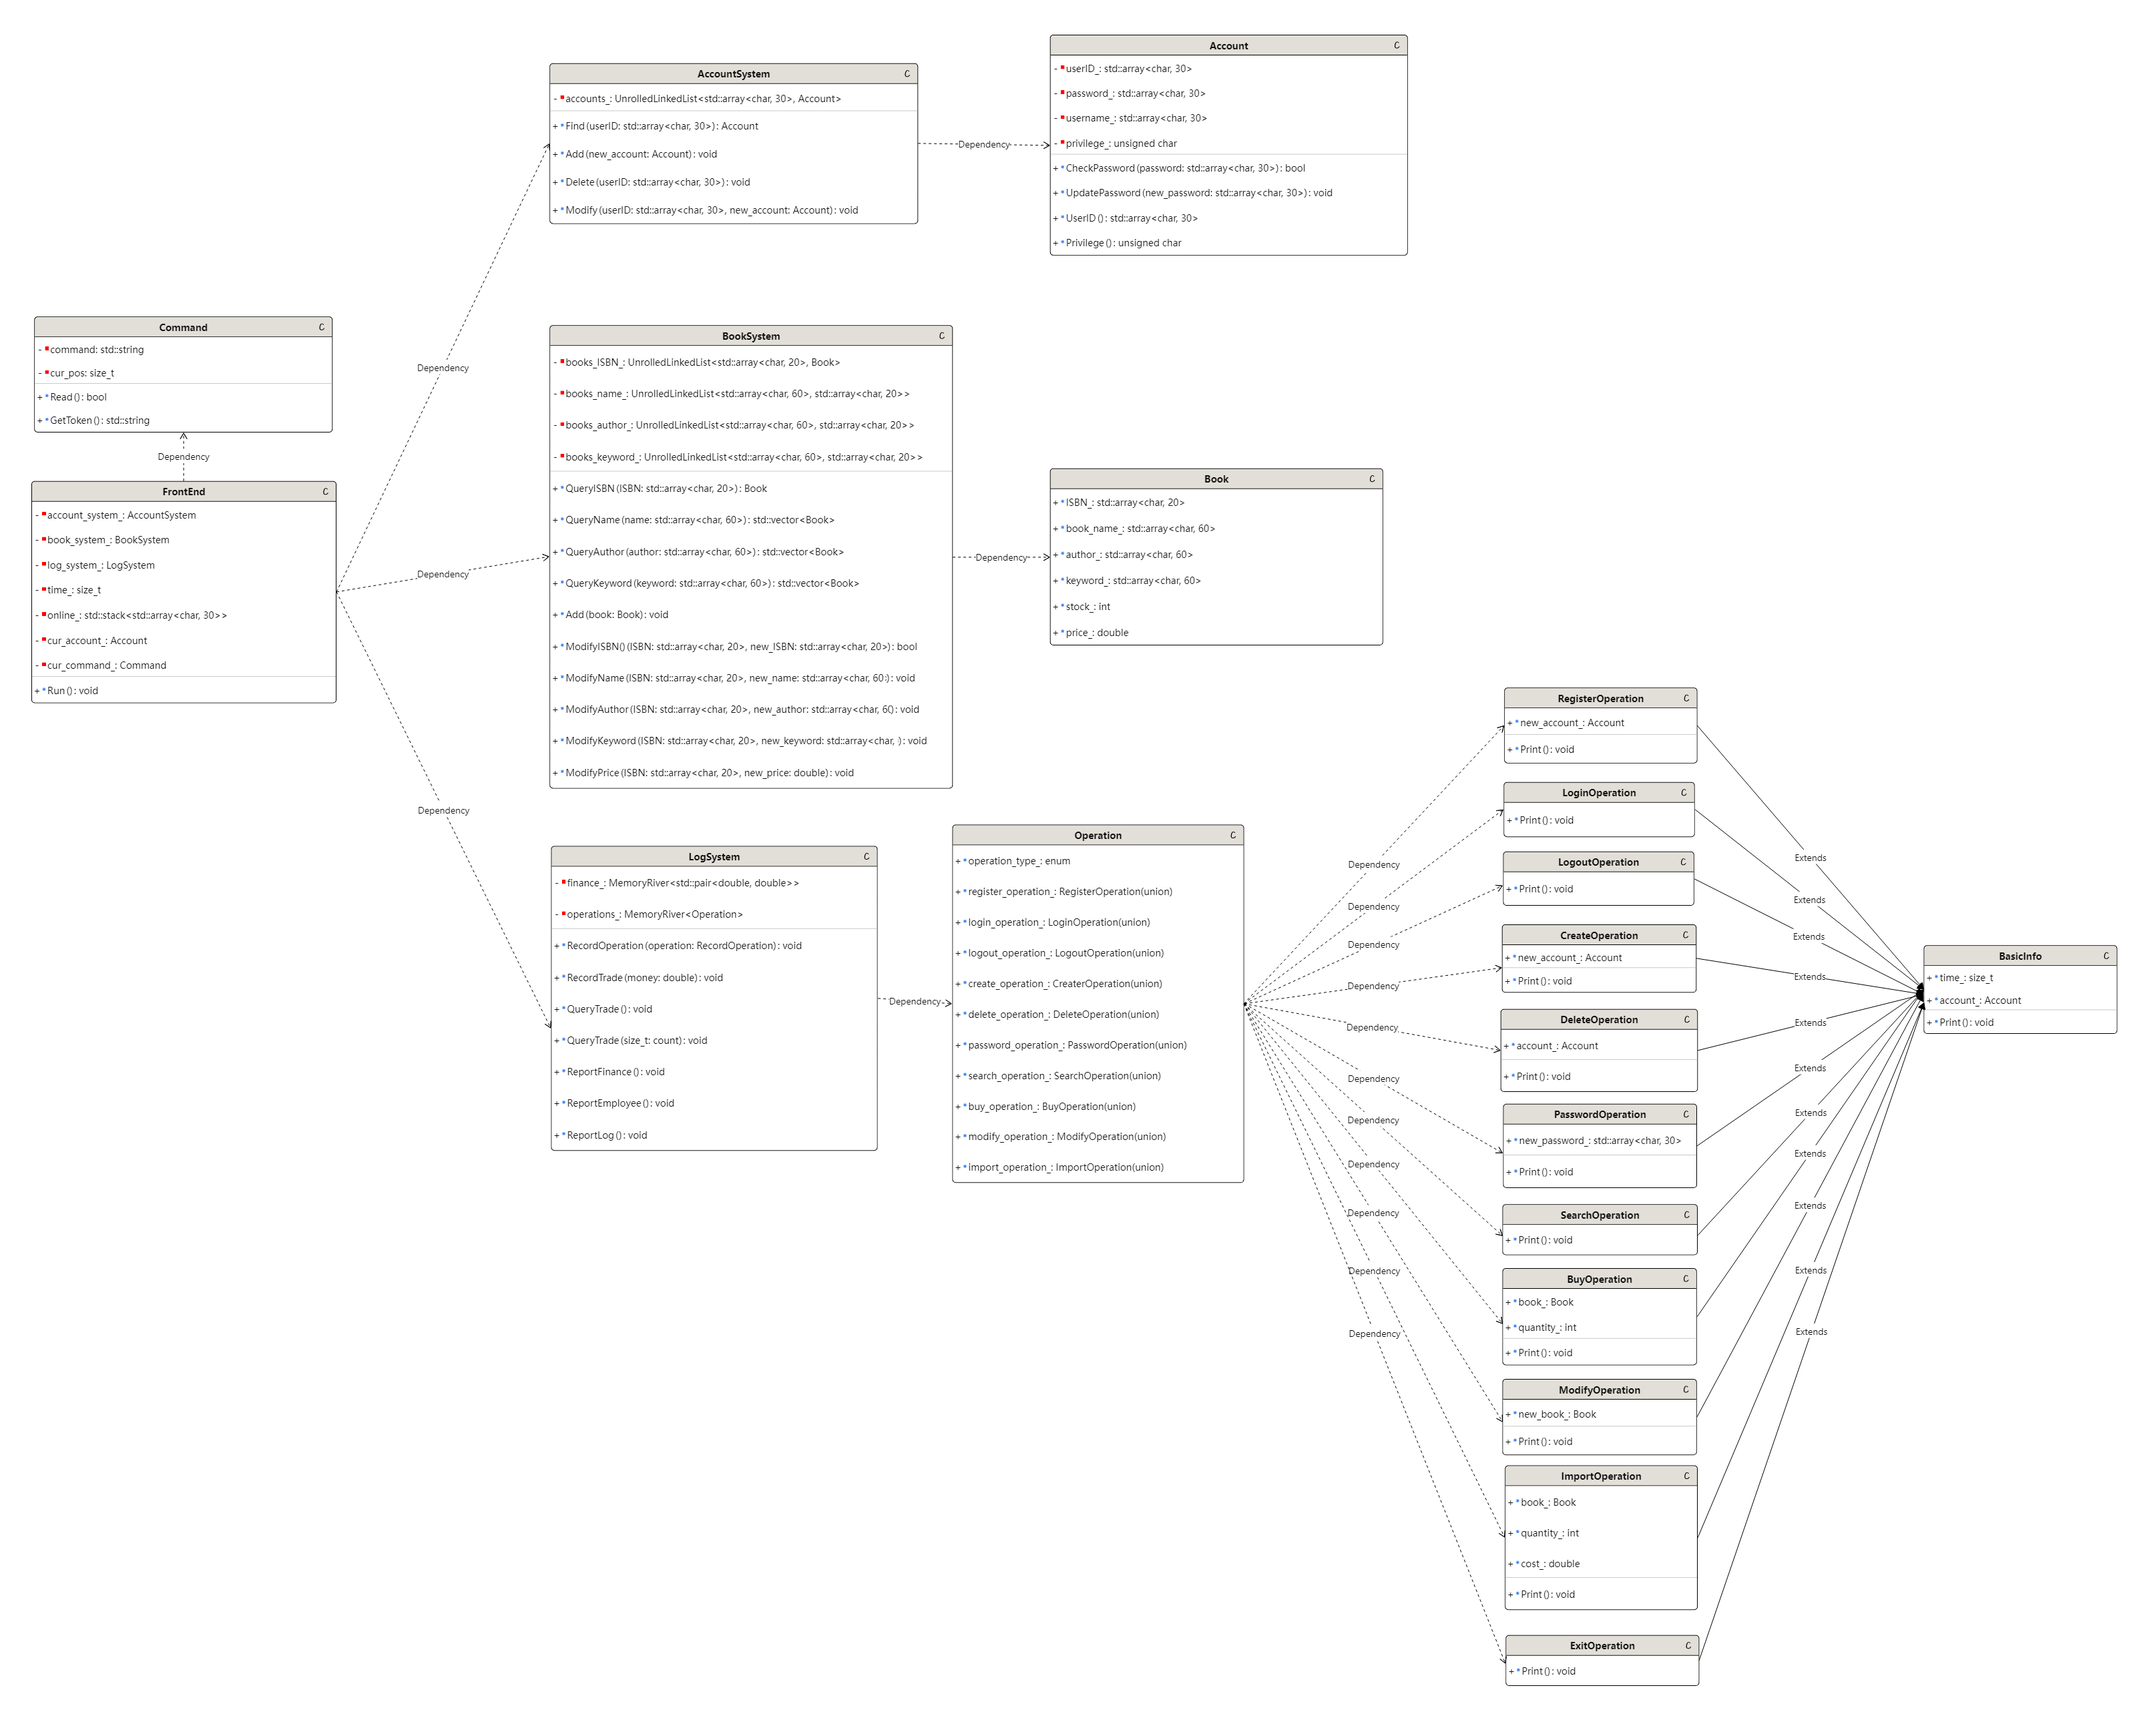
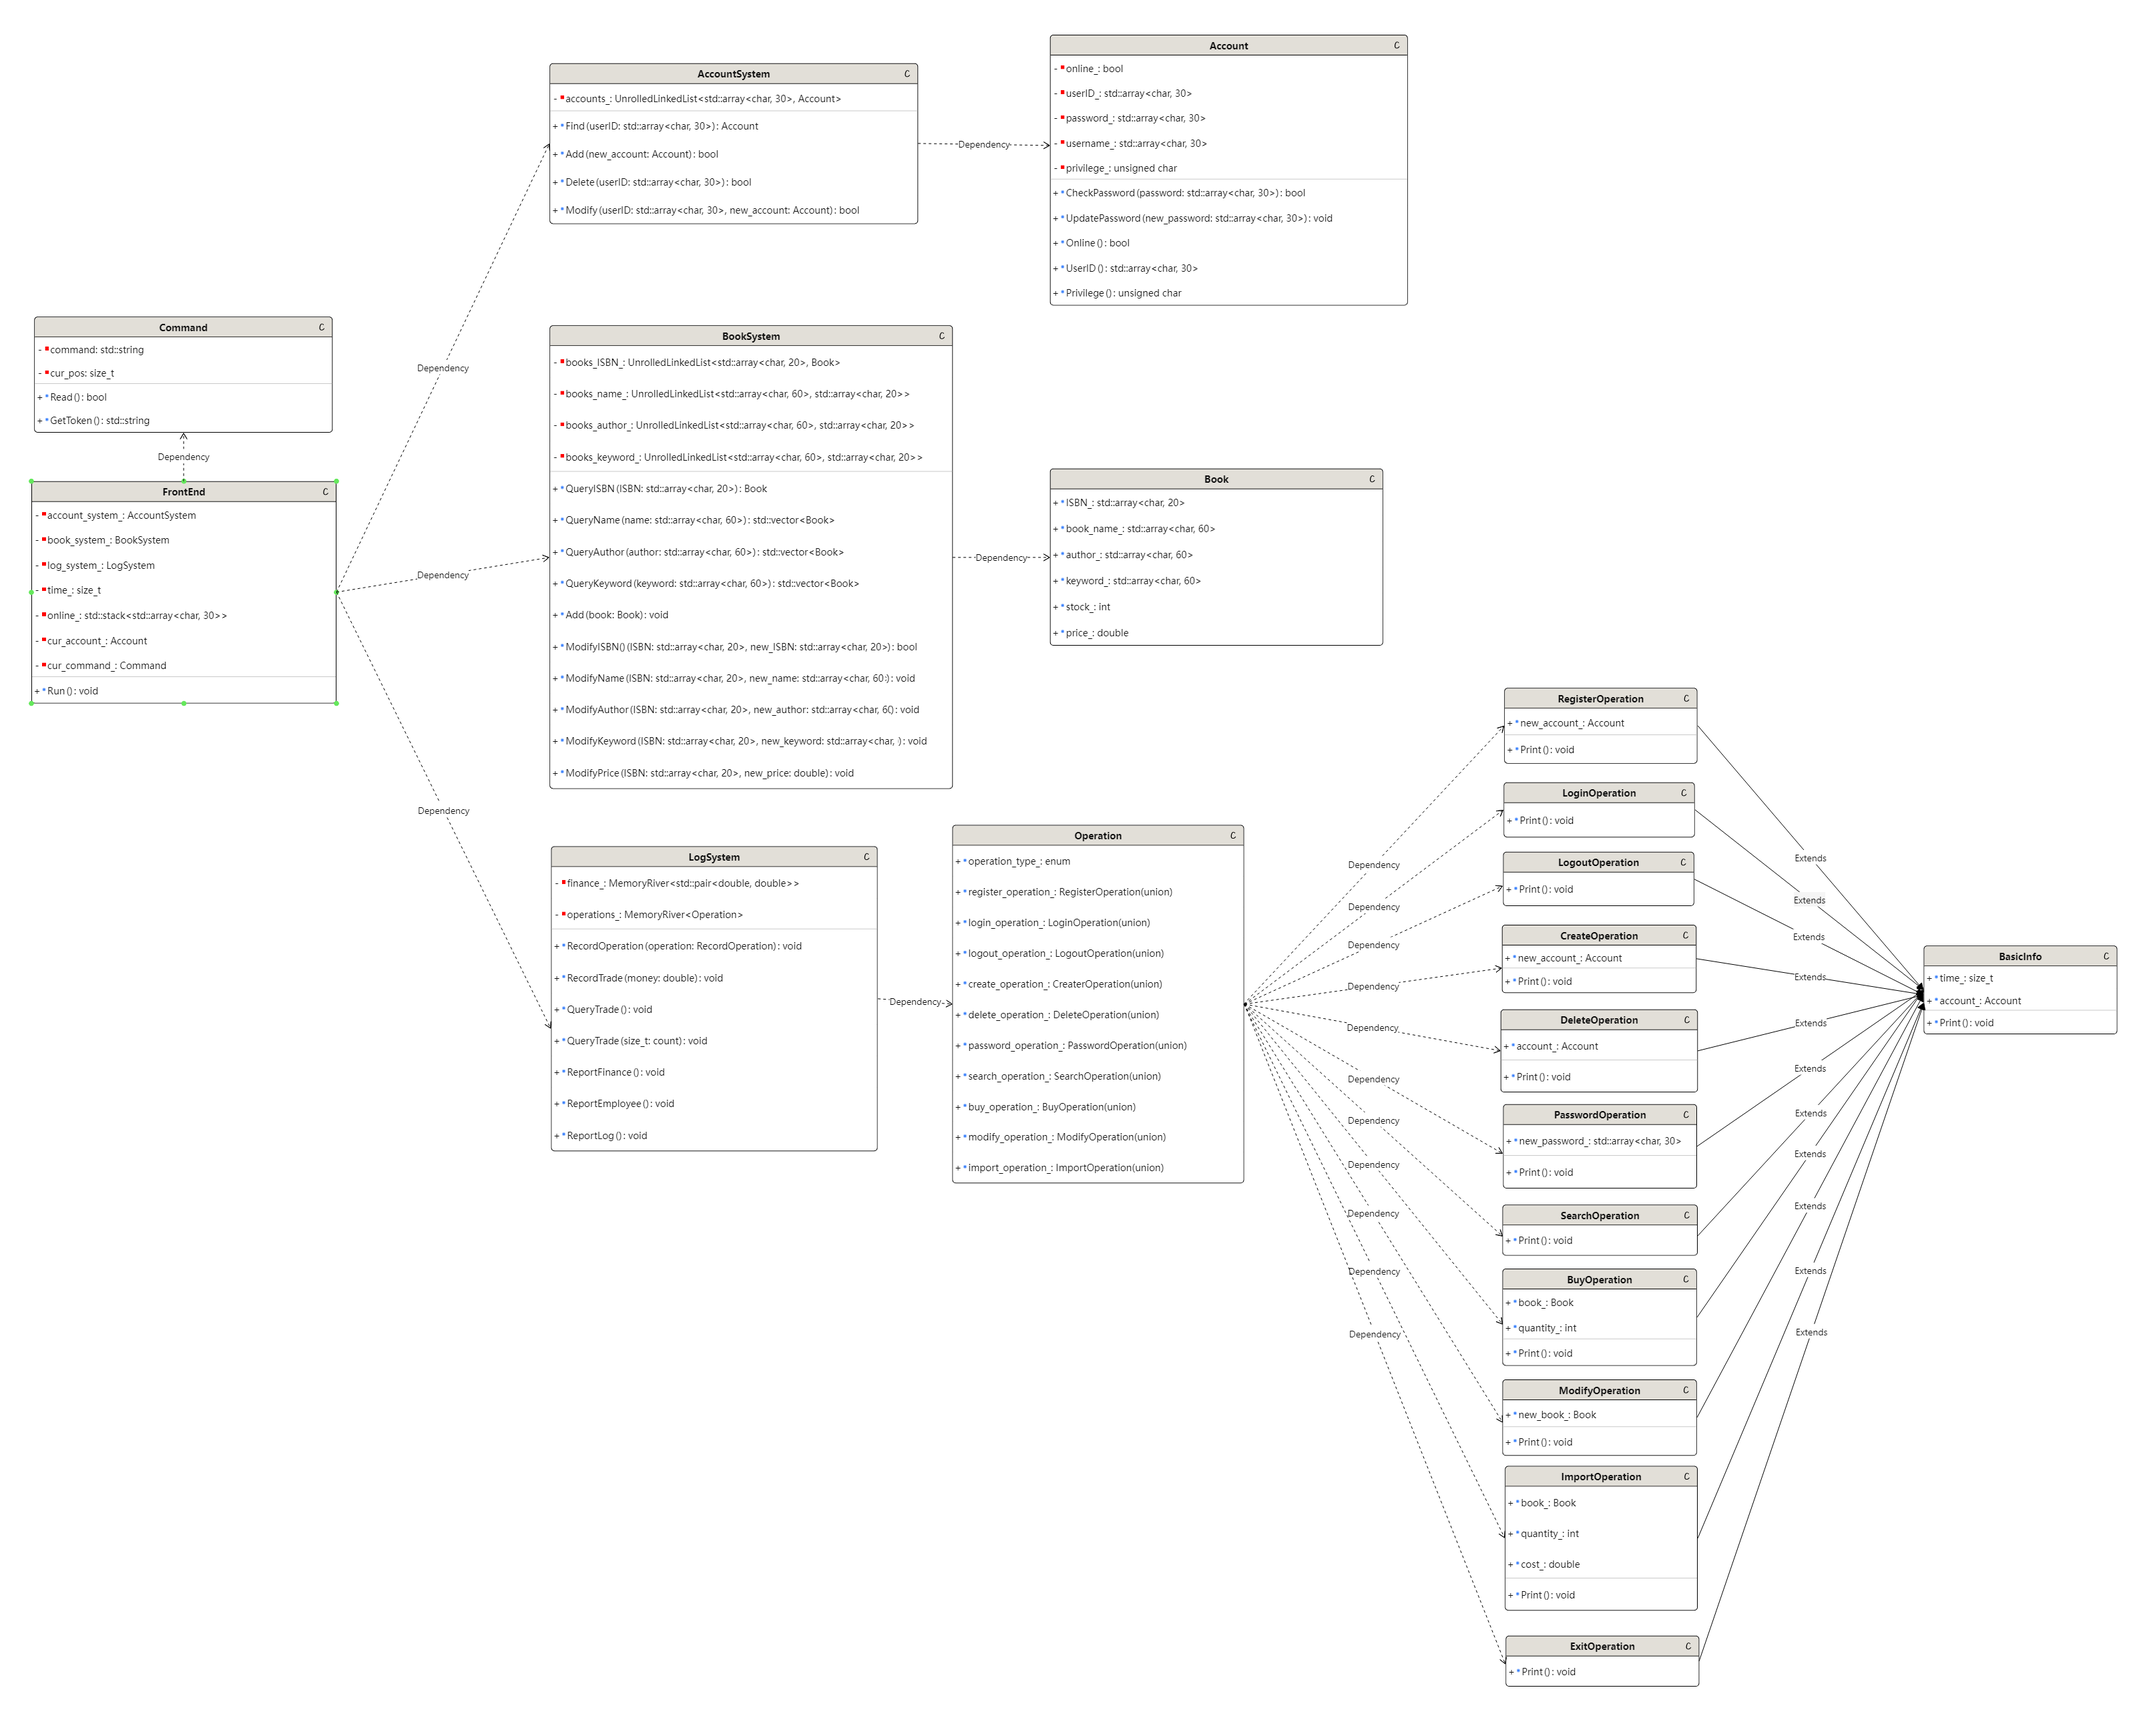
add account.h and account.cpp and implement them, add book.h and book.cpp, modify 总体设计文档

diff --git a/src/account.cpp b/src/account.cpp
@@ -1,0 +1,71 @@
+#include "account.h"
+#include <vector>
+#include <cassert>
+
+bool Account::Online() const {
+  return online_;
+}
+
+bool Account::CheckPassword(const std::array<char, 30> &password) const {
+  return password == password_;
+}
+
+void Account::UpdatePassword(const std::array<char, 30> &new_password) {
+  password_ = new_password;
+}
+
+std::array<char, 30> Account::UserID() const {
+  return userID_;
+}
+
+unsigned char Account::Privilege() const {
+  return privilege_;
+}
+
+/**
+ *
+ * @return if not finded, the privilege is zero.
+ */
+Account AccountSystem::Find(const std::array<char, 30> &userID) {
+  std::vector<Account> res = accounts_.Find(userID);
+  if (res.empty()) {
+    return Account();
+  } else {
+    assert(res.size() == 1);
+    return res[0];
+  }
+}
+
+bool AccountSystem::Add(const Account &new_account) {
+  Account tmp = Find(new_account.UserID());
+  if (tmp.Privilege()) {
+    return false;
+  } else {
+    accounts_.Insert(new_account.UserID(), new_account);
+    return true;
+  }
+}
+
+bool AccountSystem::Delete(const std::array<char, 30> &userID) {
+  Account tmp = Find(userID);
+  if (tmp.Privilege()) {
+    if (tmp.Online()) {
+      return false;
+    }
+    accounts_.Delete(userID, tmp);
+    return true;
+  } else {
+    return false;
+  }
+}
+
+bool AccountSystem::Modify(const std::array<char, 30> &userID, const Account &new_account) {
+  Account tmp = Find(userID);
+  if (tmp.Privilege()) {
+    accounts_.Delete(userID, tmp);
+    accounts_.Insert(userID, new_account);
+    return true;
+  } else {
+    return false;
+  }
+}

diff --git a/include/account.h b/include/account.h
@@ -1,0 +1,37 @@
+#ifndef ACCOUNT_H
+#define ACCOUNT_H
+
+#include "unrolled_linked_list.h"
+#include <array>
+#include <string>
+
+class Account {
+private:
+  bool online_;
+  std::array<char, 30> userID_;
+  std::array<char, 30> password_;
+  std::array<char, 30> username_;
+  unsigned char privilege_;
+public:
+  Account() : privilege_(0) {}
+  Account(const std::array<char, 30> &userID, const std::array<char, 30> &password, const std::array<char, 30> &username, const unsigned char &privilege = 1) : online_(false), userID_(userID), password_(password),username_(username), privilege_(privilege) {}
+  bool CheckPassword(const std::array<char, 30> &) const;
+  void UpdatePassword(const std::array<char, 30> &);
+  bool Online() const;
+  std::array<char, 30> UserID() const;
+  unsigned char Privilege() const;
+};
+
+class AccountSystem {
+private:
+  UnrolledLinkedList<std::array<char, 30>, Account> accounts_;
+public:
+  AccountSystem() = delete;
+  AccountSystem(const std::string &name) : accounts_(name) {}
+  Account Find(const std::array<char, 30> &);
+  bool Add(const Account &);
+  bool Delete(const std::array<char, 30> &);
+  bool Modify(const std::array<char, 30> &, const Account &);
+};
+
+#endif //ACCOUNT_H

diff --git a/include/book.h b/include/book.h
@@ -1,0 +1,17 @@
+#ifndef BOOK_H
+#define BOOK_H
+
+#include <array>
+
+struct Book {
+  std::array<char, 20> ISBN_;
+  std::array<char, 60> book_name_;
+  std::array<char, 60> author_;
+  std::array<char, 60> keyword_;
+  int stock_;
+  double price_;
+};
+
+
+
+#endif //BOOK_H

diff --git a/src/book.cpp b/src/book.cpp
@@ -1,0 +1,1 @@
+#include "book.h"

diff --git a/doc/总体设计文档.md b/doc/总体设计文档.md
@@ -91,6 +91,6 @@ author:王健豪
 
 ![Bookstore类、结构体设计.png](Bookstore类、结构体设计.png)
 
-备注：`MemoryRiver` 和 `UnrolledLinkedList` 两个文件操作类与 Bookstore 的整体实现相对独立，可以当作黑盒使用。其中`MemoryRiver` 是允许在文件中存储若干个 `size_t` 类型和若干个某一定长类型的变量，而 `UnrolledBlockedList` 允许在文件中有序存储若干 `(key,value)`。
+备注：`MemoryRiver` 和 `UnrolledLinkedList` 两个文件操作类与 Bookstore 的整体实现相对独立，可以当作黑盒使用。其中`MemoryRiver` 是允许在文件中存储若干个 `size_t` 类型和若干个某一定长类型的变量，而 `UnrolledLinkedList` 允许在文件中有序存储若干 `(key,value)`。
 
 ## 其他补充说明
